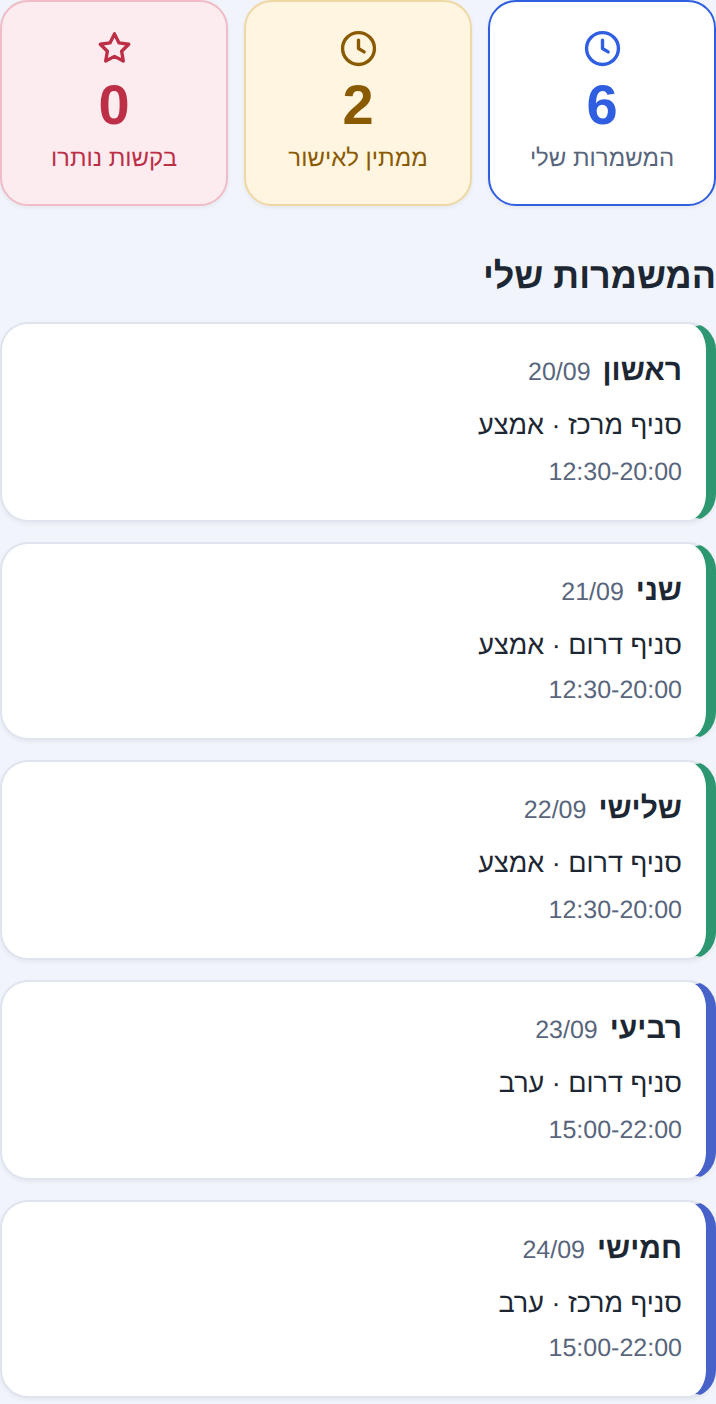
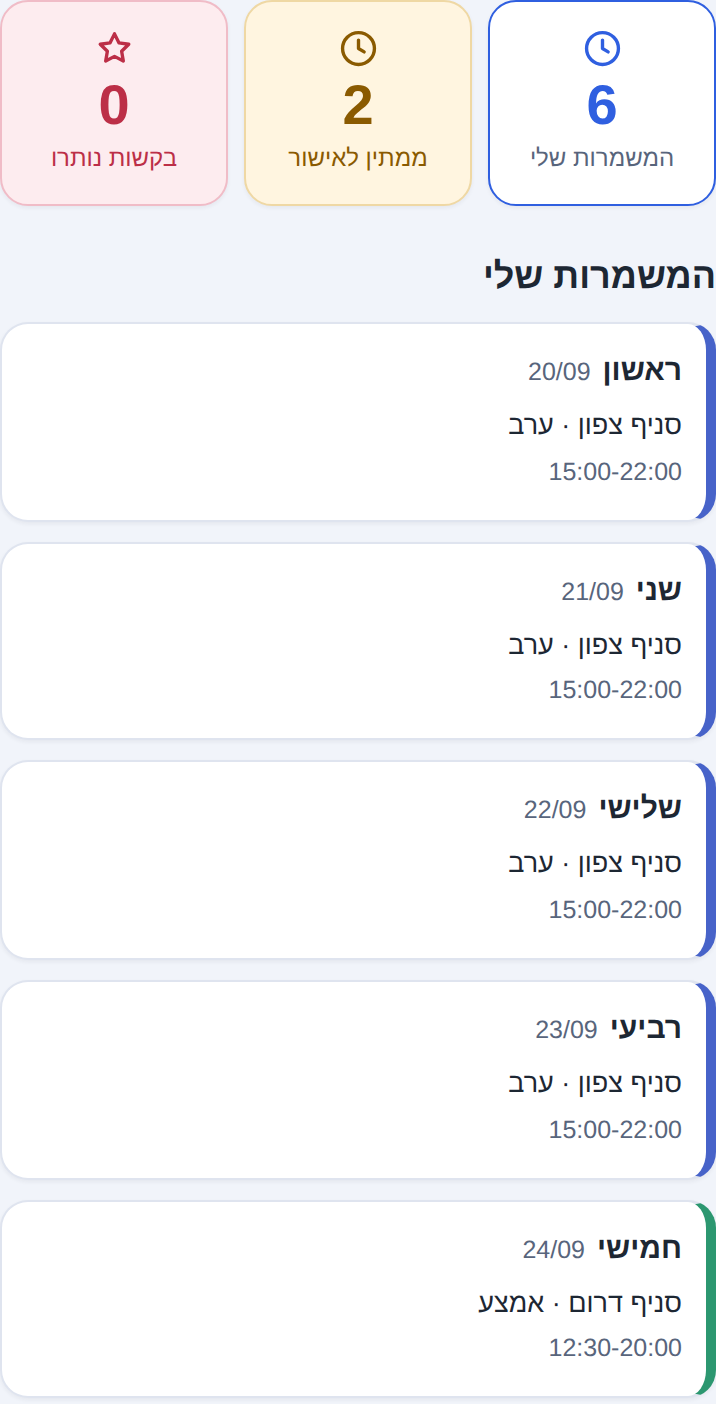
אחרי הפרסום מסך העובד מציג סידור, לא טופס
עד הפרסום, הבקשות הן המשימה של העובד והן פתוחות. אחרי הפרסום הן
נעולות ממילא – ושבעה ימים של כפתורים מתים מתחת לסידור דוחפים אותו
למעלה ומטשטשים בדיוק את מה שהעובד פתח את המסך כדי לראות.

מעכשיו הן מתקפלות, עם כותרת שאומרת מה יש בפנים ("האילוצים שלי ·
3 בקשות"), ונפתחות בלחיצה למי שרוצה לבדוק מה ביקש ומה אושר.
לפני הפרסום אין מגירה בכלל.

details/summary ולא כפתור עם JS: נגיש מהמקלדת, נקרא נכון בקורא
מסך, ועובד גם אם סקריפט נכשל. מצב הפתיחה נזכר בין ציורים – מגירה
שנסגרת בדיוק כשקוראים בתוכה מרגישה כמו תקלה.

הבדיקה מאמתת גם את הסדר עצמו: המשמרות מוצגות מעל המגירה. זה כל
הרעיון, וזה הדבר שקל לשבור בשינוי עיצוב עתידי.

הערה על הדרך: הבדיקה נכשלה בהתחלה מסיבה שאינה בקוד המוצר –
setPassword מחבר את המוזמן, ולכן הפרסום רץ תחת עובד ולא נכתב
לשרת. תועד בבדיקה, כדי שהמלכודת הזו לא תיתפס כבאג בפעם הבאה.

Claude-Session: https://claude.ai/code/session_01KwKUPpQ7FaPnS1cveUReN7

diff --git a/js/backend/employee-ui.js b/js/backend/employee-ui.js
@@ -51,6 +51,9 @@
     this.state = null;
     this.week = null;
     this.busy = false;
+    /* האם מגירת הבקשות פתוחה. רלוונטי רק אחרי שהסידור פורסם:
+       עד אז הבקשות הן המשימה של העובד והן פתוחות תמיד. */
+    this.requestsOpen = false;
   }
 
   EmployeeUI.prototype.start = function () {
@@ -83,6 +86,14 @@
 
   EmployeeUI.prototype._bind = function () {
     var self = this;
+
+    /* מגירת הבקשות נזכרת בין ציורים. בלי זה כל שמירה או עדכון
+       חי היו סוגרים אותה בדיוק בזמן שהעובד קורא בתוכה.
+       toggle אינו עולה בבועות, ולכן מאזינים בשלב הלכידה. */
+    this.root.addEventListener('toggle', function (event) {
+      var fold = event.target.closest('.employee-fold');
+      if (fold) { self.requestsOpen = fold.open; }
+    }, true);
 
     /* בתצוגה מקדימה מחוברת רק הניווט בין שבועות. כל השאר נצפה. */
     if (this.preview) {
@@ -403,8 +414,35 @@
       html += '<p class="employee-note">' + esc(t('employee.totalWeek', { count: shifts.length })) + '</p>';
     }
 
-    /* האילוצים שלי */
-    html += '<h2 class="employee-title">' + t('employee.myRequests') + '</h2>';
+    /* האילוצים שלי.
+
+       אחרי שהסידור פורסם, מה שהעובד בא לראות הוא המשמרות שלו.
+       הבקשות כבר נעולות – הן היסטוריה, לא משימה – ושבעה ימים של
+       כפתורים מתים מתחת לסידור דוחפים אותו למטה ומטשטשים את מה
+       שכן חשוב. לכן הן מתקפלות, ונפתחות בלחיצה למי שרוצה לראות
+       מה ביקש ומה אושר.
+
+       לפני הפרסום זה הפוך בדיוק: זו כל המשימה של העובד, והמגירה
+       פתוחה. details/summary ולא כפתור עם JS – הוא נגיש מהמקלדת,
+       עובד גם אם סקריפט נכשל, ונקרא נכון בקורא מסך. */
+    var canFold = !!this.week.published;
+    var pendingCount = 0;
+    Data.DAYS.forEach(function (day) {
+      if (self._record(day.idx)) pendingCount++;
+    });
+    if (canFold) {
+      html += '<details class="employee-fold"' + (this.requestsOpen ? ' open' : '') + '>';
+      html += '<summary class="employee-fold-head">' +
+        '<span class="employee-title">' + t('employee.myRequests') + '</span>' +
+        '<span class="employee-fold-hint">' +
+          esc(pendingCount
+            ? tPlural('employee.foldCount', pendingCount)
+            : t('employee.foldEmpty')) + '</span>' +
+        ico('chevron', 'employee-fold-mark') +
+        '</summary>';
+    } else {
+      html += '<h2 class="employee-title">' + t('employee.myRequests') + '</h2>';
+    }
     if (this.week.published) {
       html += '<p class="employee-note">' + t('employee.publishedLocked') + '</p>';
     } else {
@@ -488,7 +526,9 @@
       }
       html += '</div>';
     });
-    html += '</div></div>';
+    html += '</div>';
+    if (canFold) { html += '</details>'; }
+    html += '</div>';
 
     this.root.innerHTML = html;
     this._showFlash();

diff --git a/css/styles.css b/css/styles.css
@@ -1261,6 +1261,42 @@ body.view-only .btn:disabled { opacity: .5; cursor: not-allowed; }
 
 .employee-title { font-size: var(--t-lg); margin: var(--s5) 0 var(--s3); }
 .employee-note { font-size: var(--t-sm); color: var(--muted); margin: 0 0 var(--s3); }
+
+/* ===== מגירת הבקשות =====
+   אחרי הפרסום, מה שהעובד בא לראות הוא המשמרות שלו. שבעה ימים של
+   כפתורים נעולים מתחתיהן דוחפים אותן למעלה ומטשטשים אותן, ולכן
+   הם מתקפלים. הכותרת נשארת כותרת – היא לא הופכת לכפתור שנראה
+   כמו משהו אחר – ורק החץ והרקע העדין אומרים שאפשר לפתוח. */
+.employee-fold { margin: var(--s5) 0 0; }
+.employee-fold-head {
+  display: flex; align-items: center; gap: var(--s2);
+  cursor: pointer; list-style: none;
+  padding: var(--s2) var(--s3);
+  border: 1px solid var(--line); border-radius: var(--r-md);
+  background: var(--surface);
+}
+/* ספארי מצייר משולש משלו, ומסיר אותו רק דרך הפסאודו-אלמנט הזה */
+.employee-fold-head::-webkit-details-marker { display: none; }
+.employee-fold-head .employee-title { margin: 0; font-size: var(--t-md); }
+.employee-fold-hint {
+  font-size: var(--t-sm); color: var(--muted);
+  margin-inline-start: auto;
+}
+/* החץ מצביע לכיוון הפתיחה, ומסתובב כשהמגירה נפתחת. הוא מסתמך
+   על ההיגיון הלוגי של RTL ולא על "ימינה/שמאלה". */
+.employee-fold-mark {
+  flex: none; transition: transform .18s ease;
+  transform: rotate(90deg);
+}
+.employee-fold[open] .employee-fold-mark { transform: rotate(-90deg); }
+.employee-fold-head:hover { border-color: var(--brand); }
+.employee-fold-head:focus-visible {
+  outline: 2px solid var(--brand); outline-offset: 2px;
+}
+.employee-fold > .employee-note { margin-top: var(--s3); }
+@media (prefers-reduced-motion: reduce) {
+  .employee-fold-mark { transition: none; }
+}
 .employee-flash {
   margin: 0 0 12px; padding: 9px 12px; border-radius: 9px; font-size: 13.5px;
   background: var(--warn-bg); color: var(--warn); border: 1px solid var(--warn-line);

diff --git a/js/i18n/ru.js b/js/i18n/ru.js
@@ -893,6 +893,8 @@
         publishedLocked: 'График опубликован — заявки на эту неделю изменить уже нельзя.',
         limitLeft: { one: 'На этой неделе у вас осталась 1 заявка из {max}.', other: 'На этой неделе у вас осталось заявок: {count} из {max}.' },
         limitSpent: 'Вы использовали все заявки на эту неделю: {max}. Отмените одну, чтобы попросить другой день.',
+        foldCount: { one: 'одна заявка', other: 'заявок: {count}' },
+        foldEmpty: 'заявок нет',
         limitReached: 'Руководитель разрешил заявок в неделю: {max}. Отмените одну, чтобы попросить другой день.',
         notLinked: 'Ваш пользователь ещё не связан с карточкой сотрудника. Обратитесь к руководителю.',
         noShiftsToday: 'В этот день смен нет', holidayNoWork: 'Праздник — работы нет'

diff --git a/js/i18n/ar.js b/js/i18n/ar.js
@@ -893,6 +893,8 @@
         publishedLocked: 'تم نشر الجدول – لم يعد بالإمكان تغيير طلبات هذا الأسبوع.',
         limitLeft: { one: 'بقي لك طلب واحد من أصل {max} هذا الأسبوع.', other: 'بقيت لك {count} طلبات من أصل {max} هذا الأسبوع.' },
         limitSpent: 'استخدمت كل الطلبات {max} لهذا الأسبوع. ألغِ طلبًا لتطلب يومًا آخر.',
+        foldCount: { one: 'طلب واحد', other: '{count} طلبات' },
+        foldEmpty: 'لم ترسل أي طلب',
         limitReached: 'حدّد المدير {max} طلبات في الأسبوع. ألغِ طلبًا لتطلب يومًا آخر.',
         notLinked: 'مستخدمك غير مرتبط ببطاقة موظف بعد. تواصل مع المدير.',
         noShiftsToday: 'لا مناوبات في هذا اليوم', holidayNoWork: 'عطلة – لا عمل'

diff --git a/js/i18n/he.js b/js/i18n/he.js
@@ -898,6 +898,8 @@
         publishedLocked: 'הסידור פורסם – לא ניתן עוד לשנות אילוצים לשבוע הזה.',
         limitLeft: { one: 'נותרה לך בקשה אחת מתוך {max} לשבוע הזה.', other: 'נותרו לך {count} בקשות מתוך {max} לשבוע הזה.' },
         limitSpent: 'ניצלת את כל {max} הבקשות לשבוע הזה. אפשר לבטל בקשה קיימת ולבקש במקומה.',
+        foldCount: { one: 'בקשה אחת', other: '{count} בקשות' },
+        foldEmpty: 'לא הגשת בקשות',
         limitReached: 'המנהל הגביל ל-{max} בקשות בשבוע. בטלו בקשה קיימת כדי לבקש במקומה.',
         notLinked: 'המשתמש שלך עדיין לא קושר לכרטיס עובד. פנה/י למנהל/ת.',
         noShiftsToday: 'אין משמרות ביום הזה', holidayNoWork: 'יום חג – אין עבודה'

diff --git a/js/i18n/de.js b/js/i18n/de.js
@@ -893,6 +893,8 @@
         publishedLocked: 'Der Plan ist veröffentlicht – Wünsche für diese Woche können nicht mehr geändert werden.',
         limitLeft: { one: 'Sie haben diese Woche noch 1 von {max} Anfragen.', other: 'Sie haben diese Woche noch {count} von {max} Anfragen.' },
         limitSpent: 'Sie haben alle {max} Anfragen dieser Woche genutzt. Ziehen Sie eine zurück, um einen anderen Tag anzufragen.',
+        foldCount: { one: 'eine Anfrage', other: '{count} Anfragen' },
+        foldEmpty: 'keine Anfragen gestellt',
         limitReached: 'Ihre Leitung erlaubt {max} Anfragen pro Woche. Ziehen Sie eine zurück, um einen anderen Tag anzufragen.',
         notLinked: 'Ihr Benutzer ist noch nicht mit einer Mitarbeiterkarte verknüpft. Bitte wenden Sie sich an Ihre Führungskraft.',
         noShiftsToday: 'An diesem Tag keine Schichten', holidayNoWork: 'Feiertag – keine Arbeit'

diff --git a/js/i18n/fr.js b/js/i18n/fr.js
@@ -893,6 +893,8 @@
         publishedLocked: 'Le planning est publié – les demandes pour cette semaine ne peuvent plus être modifiées.',
         limitLeft: { one: 'Il vous reste 1 demande sur {max} cette semaine.', other: 'Il vous reste {count} demandes sur {max} cette semaine.' },
         limitSpent: 'Vous avez utilisé vos {max} demandes de la semaine. Annulez-en une pour demander un autre jour.',
+        foldCount: { one: 'une demande', other: '{count} demandes' },
+        foldEmpty: 'aucune demande',
         limitReached: 'Votre responsable autorise {max} demandes par semaine. Annulez-en une pour demander un autre jour.',
         notLinked: 'Votre utilisateur n’est pas encore lié à une fiche d’employé. Contactez votre responsable.',
         noShiftsToday: 'Aucun service ce jour-là', holidayNoWork: 'Jour férié – pas de travail'

diff --git a/js/i18n/es.js b/js/i18n/es.js
@@ -893,6 +893,8 @@
         publishedLocked: 'El horario está publicado: ya no se pueden cambiar las solicitudes de esta semana.',
         limitLeft: { one: 'Te queda 1 de {max} solicitudes esta semana.', other: 'Te quedan {count} de {max} solicitudes esta semana.' },
         limitSpent: 'Has usado las {max} solicitudes de esta semana. Cancela una para pedir otro día.',
+        foldCount: { one: 'una solicitud', other: '{count} solicitudes' },
+        foldEmpty: 'sin solicitudes',
         limitReached: 'Tu encargado permite {max} solicitudes por semana. Cancela una para pedir otro día.',
         notLinked: 'Tu usuario aún no está vinculado a una ficha de empleado. Habla con tu responsable.',
         noShiftsToday: 'No hay turnos este día', holidayNoWork: 'Festivo: no se trabaja'

diff --git a/js/i18n/pt.js b/js/i18n/pt.js
@@ -893,6 +893,8 @@
         publishedLocked: 'O horário está publicado – os pedidos desta semana já não podem ser alterados.',
         limitLeft: { one: 'Resta-lhe 1 de {max} pedidos esta semana.', other: 'Restam-lhe {count} de {max} pedidos esta semana.' },
         limitSpent: 'Usou os {max} pedidos desta semana. Cancele um para pedir outro dia.',
+        foldCount: { one: 'um pedido', other: '{count} pedidos' },
+        foldEmpty: 'sem pedidos',
         limitReached: 'O seu gestor permite {max} pedidos por semana. Cancele um para pedir outro dia.',
         notLinked: 'O teu utilizador ainda não está ligado a uma ficha de colaborador. Fala com o teu responsável.',
         noShiftsToday: 'Não há turnos neste dia', holidayNoWork: 'Feriado – não se trabalha'

diff --git a/js/i18n/en.js b/js/i18n/en.js
@@ -899,6 +899,8 @@
         publishedLocked: 'The schedule is published – requests for this week can no longer be changed.',
         limitLeft: { one: 'You have 1 of {max} requests left this week.', other: 'You have {count} of {max} requests left this week.' },
         limitSpent: 'You have used all {max} requests for this week. Cancel one to ask for a different day.',
+        foldCount: { one: 'one request', other: '{count} requests' },
+        foldEmpty: 'no requests sent',
         limitReached: 'Your manager allows {max} requests per week. Cancel one to ask for a different day.',
         notLinked: 'Your user is not linked to a staff card yet. Please contact your manager.',
         noShiftsToday: 'No shifts on this day', holidayNoWork: 'Holiday – no work'
